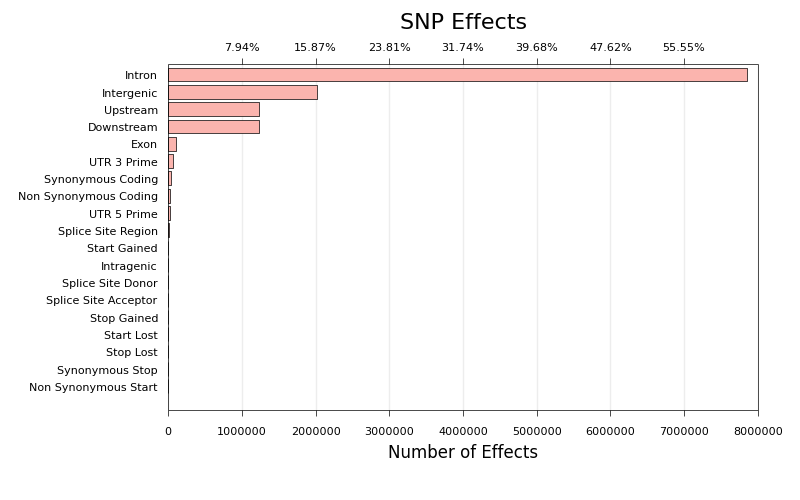
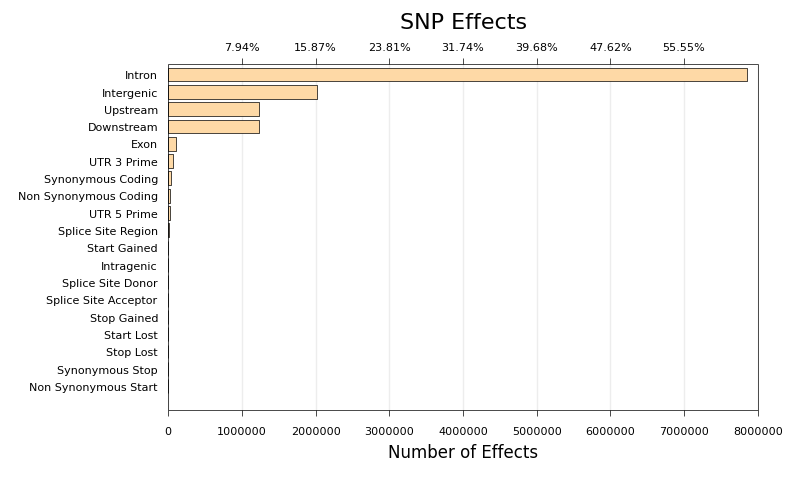
Changed colour of snpEff plot

Changed region(s): [[0.1875, 0.12, 0.9375, 0.33]]

diff --git a/snpEff/snpEff_plots.py b/snpEff/snpEff_plots.py
@@ -73,7 +73,7 @@ def plot_snpEff (summary_fn, output_fn='effect_types', logx=False):
     if logx:
         min_x = 1
     ypos = numpy.arange(1, len(plt_labels)+1)
-    axes.bar(min_x, 0.8, plt_counts, ypos, log=logx, orientation='horizontal', linewidth=0.5, color="#fbb4ae")
+    axes.bar(min_x, 0.8, plt_counts, ypos, log=logx, orientation='horizontal', linewidth=0.5, color="#fed9a6")
 
     # Y axis
     axes.set_yticks(ypos+0.3)
